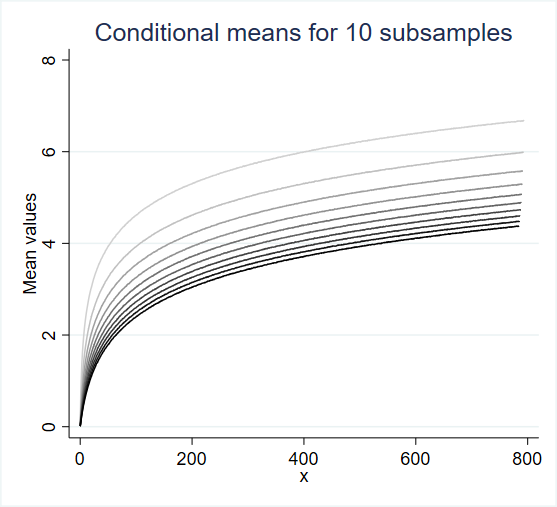
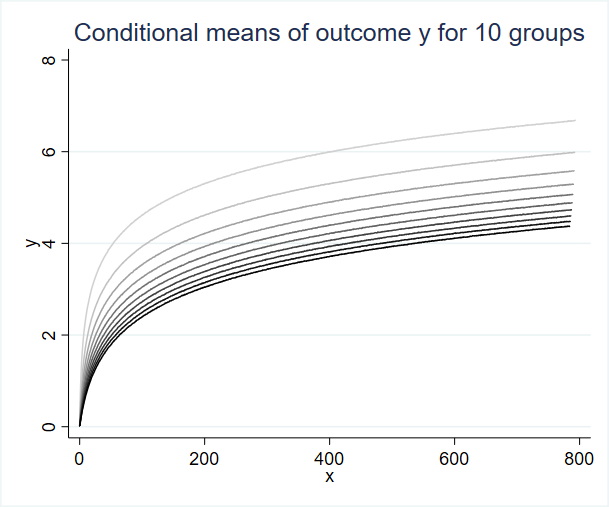
pictures, readme 2

diff --git a/README.md b/README.md
@@ -2,23 +2,38 @@
 
 this is a collection of custom stata programs that I use on a regular basis:
 
-    DESTRING
     EST_ADD
     EST_REPLACE
     PLOTAREA
     PLOTB 
-    PLOTSUMS
+    PLOTMEANS
     PLOTTABS
     TICTOC
 
-The PLOT family of commands is particularly useful, expanding the graphing toolkit of Stata by commands which:
-1. plot conditional shares of dummy variables (e.g., employment shares over time, or industry shares of workers)
-2. plot conditional means of any variables (e.g., average wages over time)
-3. plot conditional shares of categorical variables (e.g., industry shares over time)
-4. plot coefficient estimates of factorized regressors
+The PLOT family of commands is particularly useful, enabling Stata users to:
+1. plot multiple conditional frequencies (e.g., numbers of workers by age and gender)
+2. plot multiple conditional shares of dummy variables (e.g., employment shares over time by region)
+3. plot multiple conditional means of variables (e.g., average wages over time by gender)
+4. plot multiple conditional shares of categorical variables (e.g., industry shares over time)
+5. plot multiple coefficient estimates of factorized regressors
 
-The PLOT commands have two main advantages: they are very fast, and they allow user to store multiple graphs in memory and overlay them into one plot. To use them, just execute the respective do-files in the preamble of your code. 
+The PLOT family has two main advantages: the commands are very fast, they use the bare minimum of memory, and they allow user to store multiple graphs in memory and overlay them into one plot. To use the commands, just execute the respective do-files in the Stata command line (or paste them into the preamble of your code). 
 
-Note: PLOT commands only work with Stata 16 and above because they leverage frame structures. If you want to make it work for earlier versions of Stata, remove the frame structures from the code. Also, if you like these commands and you would like to convert them into a proper .ado Stata format with help files and all that, please get in touch. 
+Note: PLOT commands only work with Stata 16 and above because they leverage frame structures. If you want to make it work for earlier versions of Stata, remove the frame structures from the code. 
+If you like these commands and would like to help with converting them into proper .ado Stata routines with help files and all that, please get in touch. 
+
+## Example 1: Conditional frequencies with PLOTTABS
+
+This example is equivalent to merging two histograms with discrete bin widths (with option *freq*):
+
+  webuse set https://www.jankabatek.com/datasets/
+  webuse plotdata, clear
+  qui do https://raw.githubusercontent.com/jankabatek/statapack/master/PLOTTABS.do
+  // first histogram (gr=1), option clear erases previous PLOT data from the memory
+  PLOTTABS if gr==1, over(x1) clear 
+  // second histogram (gr=2), specify the graph type, twoway options & graph options (options are wrapped in `" "' to allow for titles and legends that use parentheses) 
+  PLOTTABS if gr==2, over(x1) graph(bar) options(`" title("Frequencies of observations, conditional on x") xtitle("x") ytitle("Frequency") legend(on order(1 "Group 1" 2 "Group 2")) xsize(7)"')  gropt(`"color(%50)"')
+ 
+![2 histograms](figures/2histograms.jpg)
 
 
